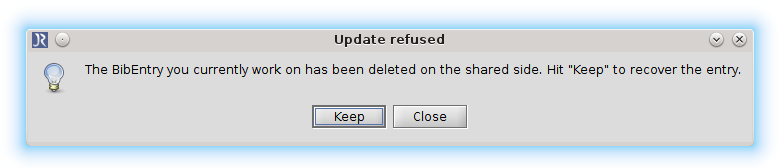
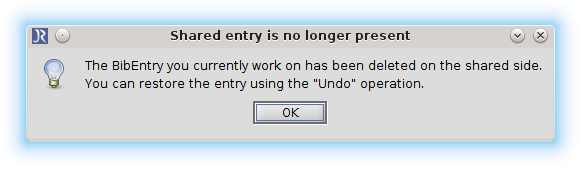
Update screenshot and documentation related to shared databases.

Changed region(s): [[0.0, 0.0893, 1.0, 0.9524], [0.398, 0.5952, 0.6122, 0.7738]]

diff --git a/en/SQLDatabase.md b/en/SQLDatabase.md
@@ -34,10 +34,11 @@ Confirm your merge by clicking on **Merge entries**.
 
 ![Screenshot of Update refused dialog](./images/update-refused-merge-dialog.png) 
 
-The **Update refused** dialog can also take a different form, if the BibEntry you currently work on has been deleted on the shared side.
-You can choose to keep the BibEntry in the database by clicking **Keep** or update to the shared side and click **Close**.
+If you are working on an entry which is deleted simultaneously by another client you will get the following popup:
 
 ![Screenshot of Update refused dialog due to a deleted entry](./images/update-refused-deleted-entry-dialog.png)
+
+Then you are able to recover the entry using the **Undo** function.
 
 If you experience a problem with your connection to your shared database, the **Connection lost** dialog will show up.
 You can choose to **Reconnect**, **Work offline** or **Close database**.
